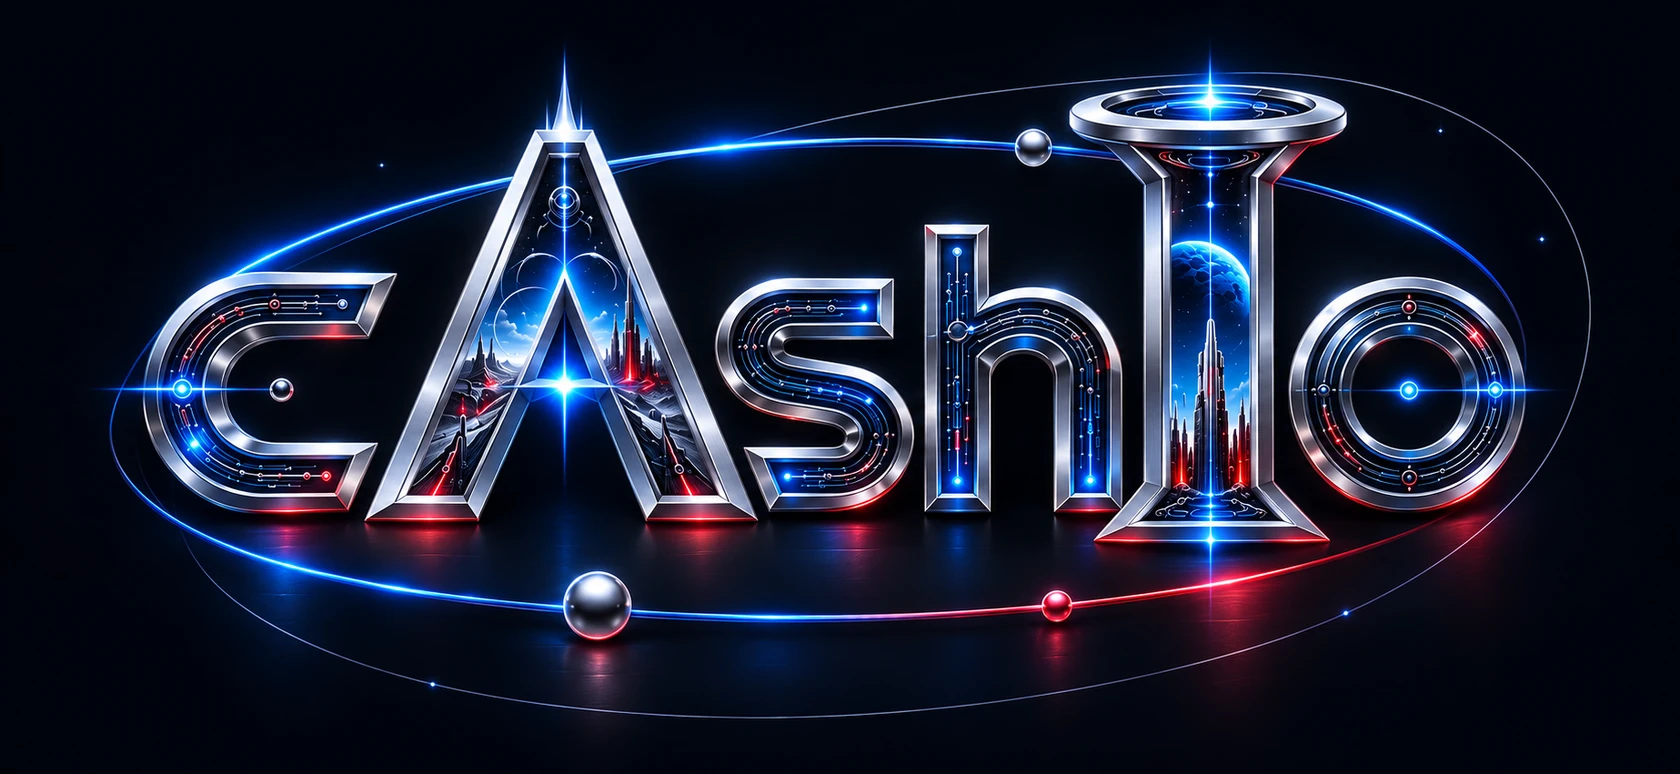
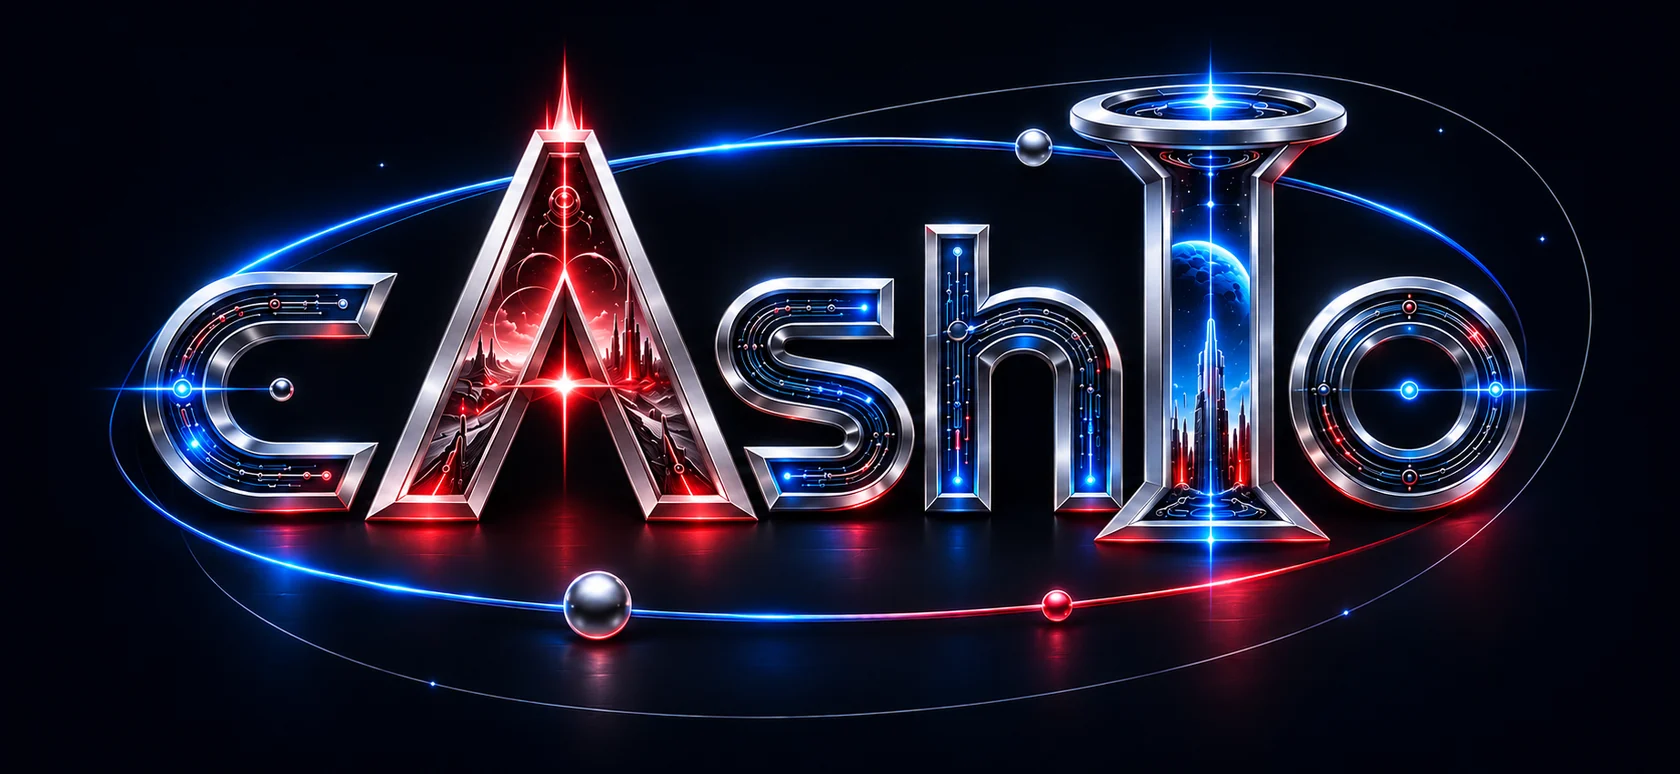
Apply approved red A and blue I to Centauri branding

diff --git a/src/v40/render-footer.ts b/src/v40/render-footer.ts
@@ -141,9 +141,9 @@ export function renderFooter(_v: GeneratedView) {
           "a",
           { key: 1933, href: "https://cashio.us/cashio.html" },
           h(React.Fragment, { key: 1934 }, "My AI workspace · c"),
-          h("span", { key: 1935, className: "v41-097ae647c2" }, h(React.Fragment, { key: 1936 }, "A")),
+          h("span", { key: 1935, className: "v41-097ae647c2 cashio-brand-a" }, h(React.Fragment, { key: 1936 }, "A")),
           h(React.Fragment, { key: 1937 }, "sh"),
-          h("span", { key: 1938, className: "v41-aab9b2719f" }, h(React.Fragment, { key: 1939 }, "I")),
+          h("span", { key: 1938, className: "v41-aab9b2719f cashio-brand-i" }, h(React.Fragment, { key: 1939 }, "I")),
           h(React.Fragment, { key: 1940 }, "o →"),
         ),
         " ",

diff --git a/src/v40/render-rail.ts b/src/v40/render-rail.ts
@@ -21,8 +21,8 @@ export function renderRail(v: GeneratedView) {
         className: "v41-72a932cfed",
       },
       h(React.Fragment, { key: 10 }, "c"),
-      h("span", { key: 11, className: "v41-097ae647c2" }, h(React.Fragment, { key: 12 }, "A")),
-      h("span", { key: 13, className: "v41-aab9b2719f" }, h(React.Fragment, { key: 14 }, "I")),
+      h("span", { key: 11, className: "v41-097ae647c2 cashio-brand-a" }, h(React.Fragment, { key: 12 }, "A")),
+      h("span", { key: 13, className: "v41-aab9b2719f cashio-brand-i" }, h(React.Fragment, { key: 14 }, "I")),
     ),
     " ",
     h(

diff --git a/public/brand/platinum/index.html b/public/brand/platinum/index.html
@@ -53,7 +53,7 @@
             />
           </div>
         </div>
-        <p>Exact casing. A blue A and red I. Outlined lettering stays consistent without a font download.</p>
+        <p>Exact casing. A red A and blue I. Outlined lettering stays consistent without a font download.</p>
       </section>
       <section aria-labelledby="icons">
         <h2 id="icons">Clear in a small space</h2>

diff --git a/src/v40/chapters/opening.css b/src/v40/chapters/opening.css
@@ -421,6 +421,12 @@ details > summary::-webkit-details-marker {
 .v41-aab9b2719f {
   color: var(--cyan);
 }
+.cashio-brand-a {
+  color: #ff3d55;
+}
+.cashio-brand-i {
+  color: #3578ff;
+}
 .v41-a0e1b1fc48 {
   flex: 1;
   display: flex;

diff --git a/public/cashio/introduction.css b/public/cashio/introduction.css
@@ -376,10 +376,10 @@ footer {
   background: var(--ink);
 }
 .wm-i {
-  color: var(--red);
+  color: var(--blue);
 }
 .wm-a {
-  color: var(--blue);
+  color: var(--red);
 }
 a:hover {
   text-decoration-color: var(--blue);

diff --git a/RELEASE_BODY.md b/RELEASE_BODY.md
@@ -1,11 +1,11 @@
 # V43 · Centauri
 
-Centauri brings the approved platinum cAshIo identity to the current experience while preserving the original planetary artwork, cinematic character and complete content. Sculpted platinum, electric blue and a restrained laser-red counterpoint carry through the signature, compact marks, controls and focus indicators.
+Centauri brings the approved platinum cAshIo identity to the current experience while preserving the original planetary artwork, cinematic character and complete content. Sculpted platinum, electric blue and a restrained laser-red counterpoint carry through the signature, compact marks, controls and focus indicators. The capital A is red and the barred capital I is blue, with the signature inlays, miniature worlds and orbits preserved.
 
 A clearer entrance explains the optional tour and makes manual boarding and experiments easy to find. Roadster inspection adds controlled reflections, direct lighting controls and model detail callouts using the original geometry, with loading only on request. The personalized mission card gains a full-size inspector and two compositions; the actual scene and decision remain consistent across preview, saved PNG and native sharing. Callsigns stay local and out of scenario links.
 
 The corrected 64 second orbit retains steady illumination. Pause, reduced motion, opt-in audio, keyboard access, reading editions, films, captions, existing destinations and historical experiences remain. The fictional Omnius hearing remains an explicitly identified V42 story.
 
-Interface date: 11-04-2026. The existing operational observation is dated November 4, 2026 and retains its V41 source identity. It reports 19 running containers out of 20, 2 running virtual machines out of 3, and 2 hosts reporting running guests. The backup source listed 161 snapshots and reported successful integrity verification for 22 of 22 latest reported guest snapshots. This visual release does not add an operational measurement or establish application health, a restore or offsite recovery.
+Prepared 11-04-2026. Branding corrected 11-05-2026. The existing operational observation is dated November 4, 2026 and retains its V41 source identity. It reports 19 running containers out of 20, 2 running virtual machines out of 3, and 2 hosts reporting running guests. The backup source listed 161 snapshots and reported successful integrity verification for 22 of 22 latest reported guest snapshots. This visual release does not add an operational measurement or establish application health, a restore or offsite recovery.
 
 Doug approved this revision for publication. Deployment remains subject to complete repository verification, protected checks and ordinary live desktop and phone verification. The exact preceding V42 receipt is preserved at `/v42/site-release.json`. Rollback is the previous production commit `d1728250e7968141c9d26be0b6ba90927521dec6`, restored through a checked pull request and verified deployment. Historical release and preview notes retain their original identities, dates and statuses.

diff --git a/README.md b/README.md
@@ -2,7 +2,7 @@
 
 Current personal identity: the [platinum cAshIo brand kit](https://cashio.us/brand/platinum/) with preserved inlaid detail, electric blue and laser red. See [brand guidance](docs/brand/PLATINUM.md) for everyday marks, icons and accessible color usage.
 
-**Centauri · Imagination, with intention** is the V43 interface prepared on 11-04-2026. The approved platinum identity accompanies a clearer first visit, richer on-demand Roadster inspection and an expandable personal mission card. The original planetary hero, four worlds, seven experiments, films and dry humor remain. House Cashio is the opening feature; the corrected 64 second orbit keeps steady illumination.
+**Centauri · Imagination, with intention** is the V43 interface prepared on 11-04-2026, with the approved red A and blue I correction on 11-05-2026. The approved platinum identity accompanies a clearer first visit, richer on-demand Roadster inspection and an expandable personal mission card. The original planetary hero, four worlds, seven experiments, films and dry humor remain. House Cashio is the opening feature; the corrected 64 second orbit keeps steady illumination.
 
 The current receipt is `public/v40/site-release.json`. Local review mode displays an unpublished ribbon and sends noindex headers; the ordinary production build is indexable. Publication follows the completed quality review and required repository checks. The prior production and rollback commit is `d1728250e7968141c9d26be0b6ba90927521dec6`. Its exact V42 receipt is preserved at `public/v42/site-release.json`. See [the Centauri release contract](docs/v43/centauri.md).
 

diff --git a/CHANGELOG.md b/CHANGELOG.md
@@ -1,6 +1,8 @@
 # Changelog
 
-## V43.0.0 · Centauri · 11-04-2026
+## V43.0.0 · Centauri · 11-05-2026
+
+Prepared 11-04-2026 and corrected for the pending 11-05-2026 release. The publication date records this revision; the observation and historical release dates remain unchanged.
 
 The approved platinum cAshIo identity uses sculpted lettering, electric blue and a restrained laser-red counterpoint. The original planetary artwork, typefaces, cut corners, content, media, bookmarks and historical editions remain. The full signature sits within an instrument plaque; compact wordmarks, icons, focus indicators and buttons share the same identity. The narrow phone header preserves readable controls without hiding them under the scrollbar.
 

diff --git a/docs/brand/PLATINUM.md b/docs/brand/PLATINUM.md
@@ -8,6 +8,8 @@ Rich, precise and futuristic, with a subtly patriotic platinum/blue/red palette.
 
 The exact wordmark is **cAshIo**: lowercase c, uppercase A, lowercase s, lowercase h, uppercase I, lowercase o. The display name may be **cAshIo AI**. Preserve readable top and bottom bars on the everyday capital I.
 
+The capital **A is laser red `#FF3D55`** and the capital **I is electric blue `#3578FF`**. Keep the other letters platinum. This letter assignment applies to the current signature, everyday marks and text fallbacks; blue remains the principal luminous accent across the wider interface.
+
 ## Palette
 
 | Role                   | Color     |

diff --git a/docs/v43/centauri.md b/docs/v43/centauri.md
@@ -1,6 +1,6 @@
 # V43 · Centauri
 
-Prepared 11-04-2026. Doug approved the reviewed platinum preview for publication and chose Centauri as the release name. Release metadata identifies the approved candidate; repository checks and live verification determine whether publication has completed.
+Prepared 11-04-2026. Branding corrected 11-05-2026. Doug approved the reviewed platinum preview for publication and chose Centauri as the release name. Release metadata identifies the approved candidate; repository checks and live verification determine whether publication has completed.
 
 ## Scope
 
